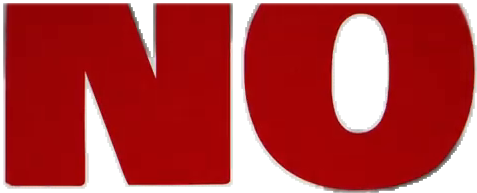
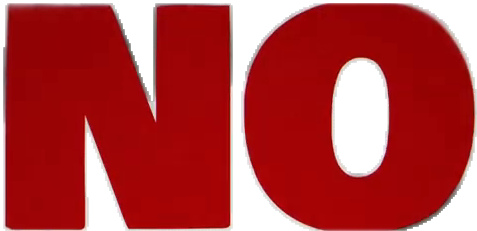
fix(v4): the two type layers were split inside NO, and the green was held flat
1. The split between HE SAID and NO was 46 % down the type's total span, which is
   396 px — but NO's own rows run 352-575. The top strip of NO was therefore cut
   into HE SAID's layer, and since the two layers are offset differently it showed
   as a dark band across the top of NO with a straight seam under it. The split is
   now the empty rows the reference itself has between the two elements (244-321
   and 352-575), so each layer is one element and nothing is shared.

2. The scene's colour was held at the plate's own level for 0.7 s. Measured as the
   share of the frame that reads green, the reference runs 15.2 % at 1.32 s,
   8.2 % at 1.50, 6.2 % at 1.70, 4.8 % at 2.05 and zero by 2.25 — most of the
   drain happens before the plate's timestamp. The scene now opens at saturate 2.1
   and falls to the plate's own value, then drains out on the measured schedule.

diff --git a/showreel/v4/index.html b/showreel/v4/index.html
@@ -184,10 +184,10 @@
     <!-- HE SAID and NO arrive as two beats, so they are two layers: the plate has
          neither. Both cut by unmixing two of the reference's own frames, which
          gives a real alpha and no fringe. -->
-    <div class="layer" id="s5he" style="left:117px; top:235px; width:465px; height:163px;
+    <div class="layer" id="s5he" style="left:119px; top:239px; width:463px; height:85px;
          background:url('./assets/ref/s5-he-layer.png') center/100% 100% no-repeat; opacity:0;
          will-change:transform,opacity;"></div>
-    <div class="layer" id="s5no" style="left:115px; top:391px; width:477px; height:193px;
+    <div class="layer" id="s5no" style="left:115px; top:347px; width:477px; height:231px;
          background:url('./assets/ref/s5-no.png') center/100% 100% no-repeat; opacity:0;
          will-change:transform,opacity;"></div>
   </section>
@@ -440,13 +440,18 @@
      the reference at every frame, which is what it was doing. */
   tl.fromTo("#s5", { scale: 1.0 }, { scale: 1.010, duration: 1.83, ease: "none" }, 1.30);
 
-  /* The colour sweep, measured on the bag's own saturation: 60 at 1.60 s, peak 125
-     at 1.85, then down to 15 by 2.25 and neutral from there. So the green does not
-     fade away — it comes UP first and then sweeps out, which is why starting a
-     desaturate at 2.10 s left this shot green while the reference had gone grey. */
-  tl.fromTo("#s5plate", { filter: "saturate(1.0)" },
-    { filter: "saturate(1.55)", duration: 0.15, ease: "power2.out" }, 1.80);
-  tl.to("#s5plate", { filter: "saturate(0.12)", duration: 0.40, ease: "power1.inOut" }, 1.95);
+  /* The colour of this shot, measured as the share of the frame that reads green
+     (a count of pixels, so it cannot be fooled the way a mean saturation can):
+
+         reference  1.32 s 15.2 %   1.50 8.2 %   1.70 6.2 %   2.05 4.8 %   2.25 0 %
+
+     The plate is that 4.8 % state and the field then finishes draining to nothing
+     by 2.25. So most of the drain happens BEFORE the plate's own timestamp — the
+     scene opens far greener than the frame the plate was taken from, and that is
+     why holding the plate still showed green where the reference was grey. */
+  tl.fromTo("#s5plate", { filter: "saturate(2.1)" },
+    { filter: "saturate(1.0)", duration: 0.78, ease: "power2.out" }, 1.32);
+  tl.to("#s5plate", { filter: "saturate(0.05)", duration: 0.25, ease: "power1.in" }, 2.00);
 
   /* HE SAID and NO are two beats, not one: HE SAID is a faint pre-echo in the
      reference from about 2.2 s and solid by 2.45, NO slams 2.35 -> 2.95 and is the

diff --git a/tools/s5_assets.py b/tools/s5_assets.py
@@ -84,13 +84,29 @@ def main() -> None:
     cv2.imwrite(str(OUT / "s5-plate.png"), cv2.cvtColor(plate.astype(np.uint8), cv2.COLOR_RGB2BGR))
     print(f"  s5-plate.png   the reference at {PLATE_T}s — no type in it")
 
+    # Split the two elements where the reference actually separates them: by the
+    # empty rows between them. Splitting at a fraction of the type's total height
+    # put the boundary inside NO (its rows run 352-575 while 46 % of the span is
+    # 396), so the top strip of NO was cut into HE SAID's layer — which then moved
+    # with HE SAID's own camera offset and left a dark band across the top of NO.
     r, g, b = full[:, :, 0], full[:, :, 1], full[:, :, 2]
     red = (r > 80) & (r - g > 35) & (r - b > 35)
-    ys, _ = np.where(red)
-    band = int(ys.min() + (ys.max() - ys.min()) * 0.46)
+    rows = red.sum(axis=1)
+    filled = [i for i in range(len(rows)) if rows[i] > 200]
+    groups, start, prev = [], filled[0], filled[0]
+    for i in filled[1:]:
+        if i - prev > 4:
+            groups.append((start, prev))
+            start = i
+        prev = i
+    groups.append((start, prev))
+    print(f"  type rows: {groups}")
+    if len(groups) < 2:
+        raise SystemExit("expected two type elements, found one — check the reference window")
+    he_rows, no_rows = groups[0], tuple([groups[1][0], groups[-1][1]])
 
-    up = np.zeros_like(red); up[:band, :] = True; up &= red
-    lo = np.zeros_like(red); lo[band:, :] = True; lo &= red
+    up = np.zeros_like(red); up[he_rows[0]:he_rows[1] + 1, :] = True; up &= red
+    lo = np.zeros_like(red); lo[no_rows[0]:no_rows[1] + 1, :] = True; lo &= red
     cut_out("s5-he-layer", up, full)
     cut_out("s5-no", lo, full)
 
